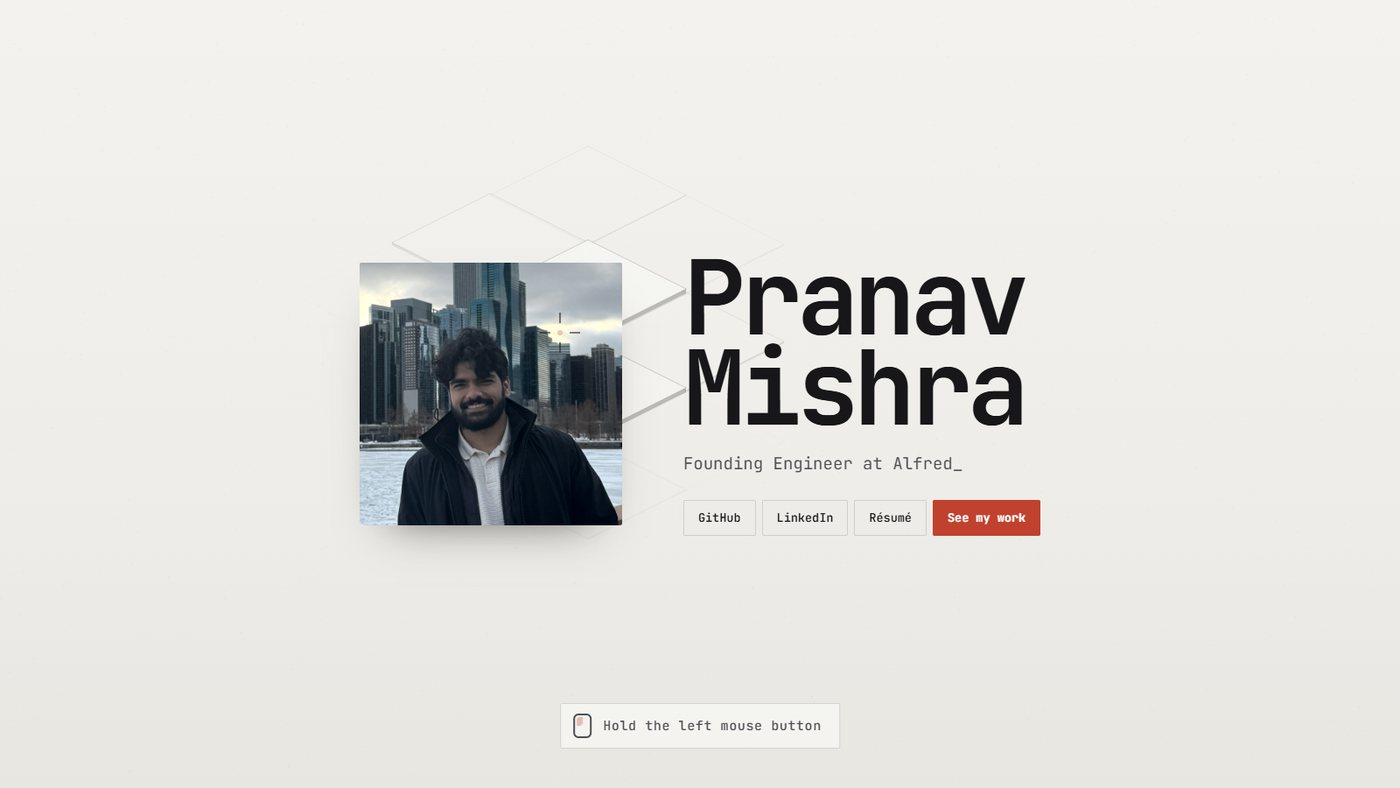
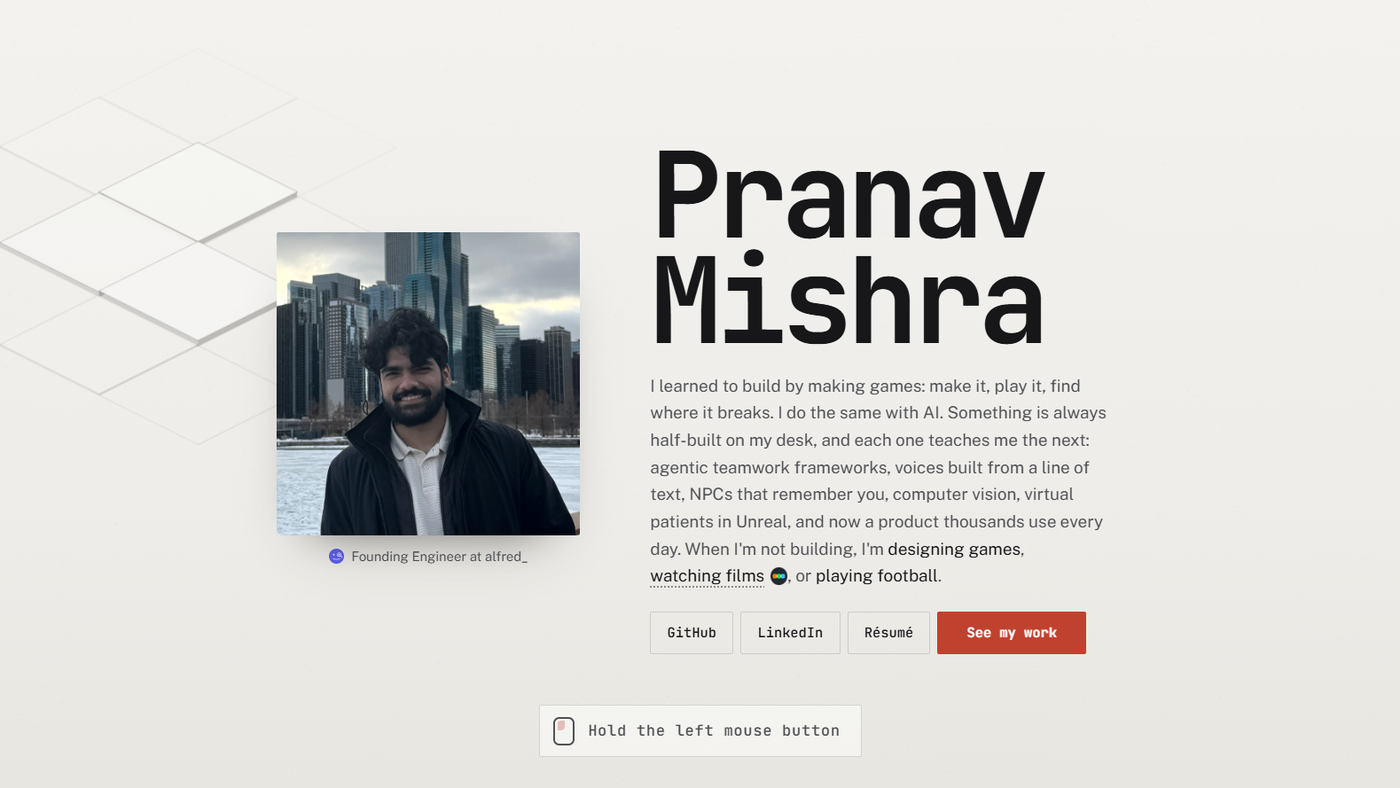
README screens for the new landing and alfred_, a phone strip, and the text to match; watching films is one link with a big target and a box that shows behind it

diff --git a/portfolio/src/variants/v19/v19.css b/portfolio/src/variants/v19/v19.css
@@ -1038,7 +1038,6 @@ html.v19-html { scrollbar-gutter: stable; }
 /* the interests: each does one thing when you point at it */
 .v19-int { position: relative; color: var(--ink); cursor: default; outline: none; }
 .v19-int.is-film { cursor: pointer; text-decoration: underline dotted rgba(23,23,26,.45); text-decoration-thickness: 1.5px; text-underline-offset: 4px; transition: color 150ms ease, text-decoration-color 150ms ease; }
-.v19-int.is-film:hover, .v19-int.is-film:focus-visible { color: #ff8000; text-decoration-color: #ff8000; text-decoration-style: solid; }
 /* games: a blinking PRESS START over the words */
 .v19-int.is-games::after {
   content: 'PRESS START'; position: absolute; left: 50%; bottom: calc(100% + 4px); transform: translate(-50%, 4px);
@@ -1072,10 +1071,20 @@ html.v19-html { scrollbar-gutter: stable; }
 }
 
 /* ── Letterboxd: the dots after "watching films" ───────────────────── */
-.v19-filmset { white-space: nowrap; position: relative; padding: 12px 6px; margin: -12px -6px; }
-.v19-lbdots { position: relative; display: inline-block; vertical-align: -3px; margin-left: 6px; text-decoration: none; }
+/* "watching films" + the dots: one link. ::before is the target, well past the words; ::after is
+   the box that shows behind them while you are in it */
+.v19-filmset { position: relative; display: inline-block; white-space: nowrap; color: inherit; text-decoration: none; isolation: isolate; cursor: pointer; }
+.v19-filmset::before { content: ''; position: absolute; inset: -22px -18px; }
+.v19-filmset::after {
+  content: ''; position: absolute; inset: -6px -10px; z-index: -1; border-radius: 8px;
+  background: rgba(255, 128, 0, .09); box-shadow: inset 0 0 0 1px rgba(255, 128, 0, .35);
+  opacity: 0; transform: scale(.94); transition: opacity 160ms ease, transform 200ms cubic-bezier(.2,.9,.3,1);
+}
+.v19-filmset:hover::after, .v19-filmset:focus-visible::after { opacity: 1; transform: none; }
+.v19-filmset:hover .v19-int.is-film, .v19-filmset:focus-visible .v19-int.is-film { color: #c45f00; text-decoration-color: #ff8000; text-decoration-style: solid; }
+.v19-lbdots { position: relative; display: inline-block; vertical-align: -3px; margin-left: 6px; }
 .v19-lbdots img { width: 17px; height: 17px; display: block; transition: transform 220ms cubic-bezier(.3,1.6,.5,1); }
-.v19-lbdots span { position: absolute; left: 50%; bottom: calc(100% + 6px); padding: 3px 8px; border-radius: 10px; background: #202830; color: #fff; font-family: var(--mono); font-size: 11px; white-space: nowrap; transform: translate(-50%, 4px); opacity: 0; pointer-events: none; transition: opacity 150ms ease, transform 180ms ease; }
-.v19-lbdots:hover img, .v19-lbdots:focus-visible img, .v19-filmset:hover .v19-lbdots img { transform: rotate(360deg) scale(1.15); }
-.v19-lbdots:hover span, .v19-lbdots:focus-visible span, .v19-filmset:hover .v19-lbdots span { opacity: 1; transform: translate(-50%, 0); }
+.v19-lbdots span { position: absolute; left: 50%; bottom: calc(100% + 10px); padding: 3px 8px; border-radius: 10px; background: #202830; color: #fff; font-family: var(--mono); font-size: 11px; white-space: nowrap; transform: translate(-50%, 4px); opacity: 0; pointer-events: none; transition: opacity 150ms ease, transform 180ms ease; }
+.v19-filmset:hover .v19-lbdots img, .v19-filmset:focus-visible .v19-lbdots img { transform: rotate(360deg) scale(1.15); }
+.v19-filmset:hover .v19-lbdots span, .v19-filmset:focus-visible .v19-lbdots span { opacity: 1; transform: translate(-50%, 0); }
 

diff --git a/portfolio/src/variants/v19/sections/Landing.js b/portfolio/src/variants/v19/sections/Landing.js
@@ -31,16 +31,17 @@ function Links({ onGo }) {
   );
 }
 
-/* "watching films", with the Letterboxd dots after it; pointing near either shows the name */
+/* "watching films" and the Letterboxd dots are one link with a target much bigger than the words:
+   the wall has no cursor, so the box around them has to be easy to land in */
 function Films() {
   return (
-    <span className="v19-filmset">
-      <a className="v19-int is-film" href={LETTERBOXD} target="_blank" rel="noreferrer">watching films</a>
-      <a className="v19-lbdots" href={LETTERBOXD} target="_blank" rel="noreferrer" aria-label="paranoid_critic on Letterboxd">
+    <a className="v19-filmset" href={LETTERBOXD} target="_blank" rel="noreferrer" aria-label="watching films: paranoid_critic on Letterboxd">
+      <span className="v19-int is-film">watching films</span>
+      <span className="v19-lbdots" aria-hidden="true">
         <img src={LB} alt="" />
         <span>paranoid_critic</span>
-      </a>
-    </span>
+      </span>
+    </a>
   );
 }
 

diff --git a/README.md b/README.md
@@ -1,18 +1,18 @@
 # Portfolio — Pranav Pushkar Mishra
 
-Founding LLM Engineer at Alfred\_. One page, no backend: a wall you have to break, the work at Alfred\_ in five measured figures, thirty projects, two papers, and a pixel room at the bottom that keeps real time.
+Founding Engineer at alfred\_. One page, no backend: a wall you have to break, what I'm building at alfred\_ in my own words and five measured figures, thirty projects, the papers, and a pixel room at the bottom that keeps real time.
 
 Live at [pranavmishra17.vercel.app](https://pranavmishra17.vercel.app/).
 
-![The wall](./preview.png)
+![The landing, on the wall](./preview.png)
 
 ## What's on the page
 
-**The wall.** The site opens behind a plaster wall. Hold the mouse button and the tiles under the cursor lift, then the whole thing comes apart and the page is underneath. The face in the header puts it back.
+**The wall.** The site opens on a plaster wall with a short intro on it. There is no cursor: the tiles lift under your hand, and hold the mouse button and they tremble harder until the whole thing comes apart and the page is underneath (on a phone, one tap). See my work does the same from a button; point at it and it says Light the fuse. The words at the end of the intro each do something when you point at them, and watching films goes to Letterboxd. The face in the header puts the wall back.
 
-![Alfred_](./docs/screens/work.jpg)
+![alfred\_](./docs/screens/work.jpg)
 
-**Now.** Alfred\_ takes the first screen: five figures, each a before struck through and an after that counts up. Point at one and its drawing appears; click and the note stays. Below the fold, WheelPrice as a bar with a car on it (point at the car), and the roles before that, folded.
+**Now.** What I'm building at alfred\_ takes the first screen, in three beats with the key words in alfred\_'s colour. Beside it the alfred\_ site sits in a window: point at it and it scrolls down the real page, and it stays where you leave it. Under that, five figures, each a before struck through and an after that counts up. Point at one and its drawing appears; click and the note stays. Below the fold, WheelPrice as a bar with a car on it (point at the car and it does a two-second lap), and the roles before that, folded.
 
 ![Projects](./docs/screens/projects.jpg)
 
@@ -32,12 +32,16 @@ Live at [pranavmishra17.vercel.app](https://pranavmishra17.vercel.app/).
 
 ![Night](./docs/screens/night.jpg)
 
+**On a phone.** The same page, laid out for one hand: the wall goes with a tap, the header keeps the section dots and the résumé, a figure's note opens inside its own box, and the whole room fits across the screen, its notes rising from the bottom.
+
+![On a phone](./docs/screens/phone.jpg)
+
 ## How it is built
 
 React 19, react-router 7, react-scripts 5, plain CSS. No TypeScript, no Tailwind, no server. Fonts from Google Fonts; everything else is in the repo.
 
 - `src/variants/v19/` is the site. `index.js` is the page shell; `copy.js` rewrites the content in `src/data/` at render time (one-liners, renames, the Alfred\_ figures, the paper overrides); `personal.js` is the shelf — books, games, posters, trophies.
-- `wall/` is the wall: `iso2.js` cuts the isometric tiles into a sprite atlas once and blits them; `Wall.js` owns the physics of the collapse; `index.js` runs the one loop and the crosshair. A frame identical to the last one is not drawn, so a wall nobody is touching costs nothing.
+- `wall/` is the wall: `iso2.js` cuts the isometric tiles into a sprite atlas once and blits them; `Wall.js` owns the physics of the collapse; `index.js` runs the one loop. A frame identical to the last one is not drawn, so a wall nobody is touching costs nothing. The blast is two phases: only the canvas changes when it goes off, and the page underneath wakes once the tiles have cleared, so nothing repaints under them while they fly.
 - `room/` is the room: `engine.js` is the pixel engine (palette indices with day and night values, lights that pull colour back toward day, a hover outline for free), `scene.js` draws it, `Room.js` runs it and handles what you click. The still parts are drawn once and copied in each frame; the room does not draw at all when it is off screen.
 - The classic site that came before is kept at [`/classic`](https://pranavmishra17.vercel.app/classic), loaded only if asked for. Prompt Patrol, the LLM-themed shooter, lives there; its design doc is [docs/prompt-patrol-gdd.html](./docs/prompt-patrol-gdd.html).
 
@@ -53,6 +57,7 @@ portfolio/
 │   └── resumes/{ai,game}/           # local backup of the résumé PDF
 ├── scripts/
 │   ├── stress.js                    # performance and stress harness (see below)
+│   ├── blast.js                     # frame timing across the wall's collapse only
 │   └── generate-resume-manifest.js
 └── src/
     ├── App.js                       # "/" and "/resume" are v19; "/classic" is the old site
@@ -81,6 +86,7 @@ npm start                         # http://localhost:3000
 |---|---|
 | `npm run build` | Production build. Bash sets `CI=false`; on Windows CMD use `set CI=false && npx react-scripts build`. |
 | `node scripts/stress.js <url> [dpr] [--quick]` | Loads the page in a real Chromium and reports fps, animation loops per frame, JS time per frame, long frames, heap, nodes and listeners across a set of scenes: idle on the wall, a stalled main thread, twenty seconds in a background tab, a resize storm, the blast, the room, three rebuild-and-blast cycles and a soak. Needs `playwright-core` and a Chromium. |
+| `node scripts/blast.js <url> [dpr]` | Holds the wall until it goes, then times every frame of the collapse at 1x and 4x CPU throttle: median, 95th percentile, worst frame and frames over 25 ms. The worst frame should stay near 17 ms. Point `PLAYWRIGHT_CORE` at a `playwright-core` directory. |
 | `npm run resume-manifest` | Scans `public/resumes/{ai,game}/` and writes `manifest.json`. Runs on `prestart` and `prebuild`. |
 | `npm test` | Jest via react-scripts. |
 
